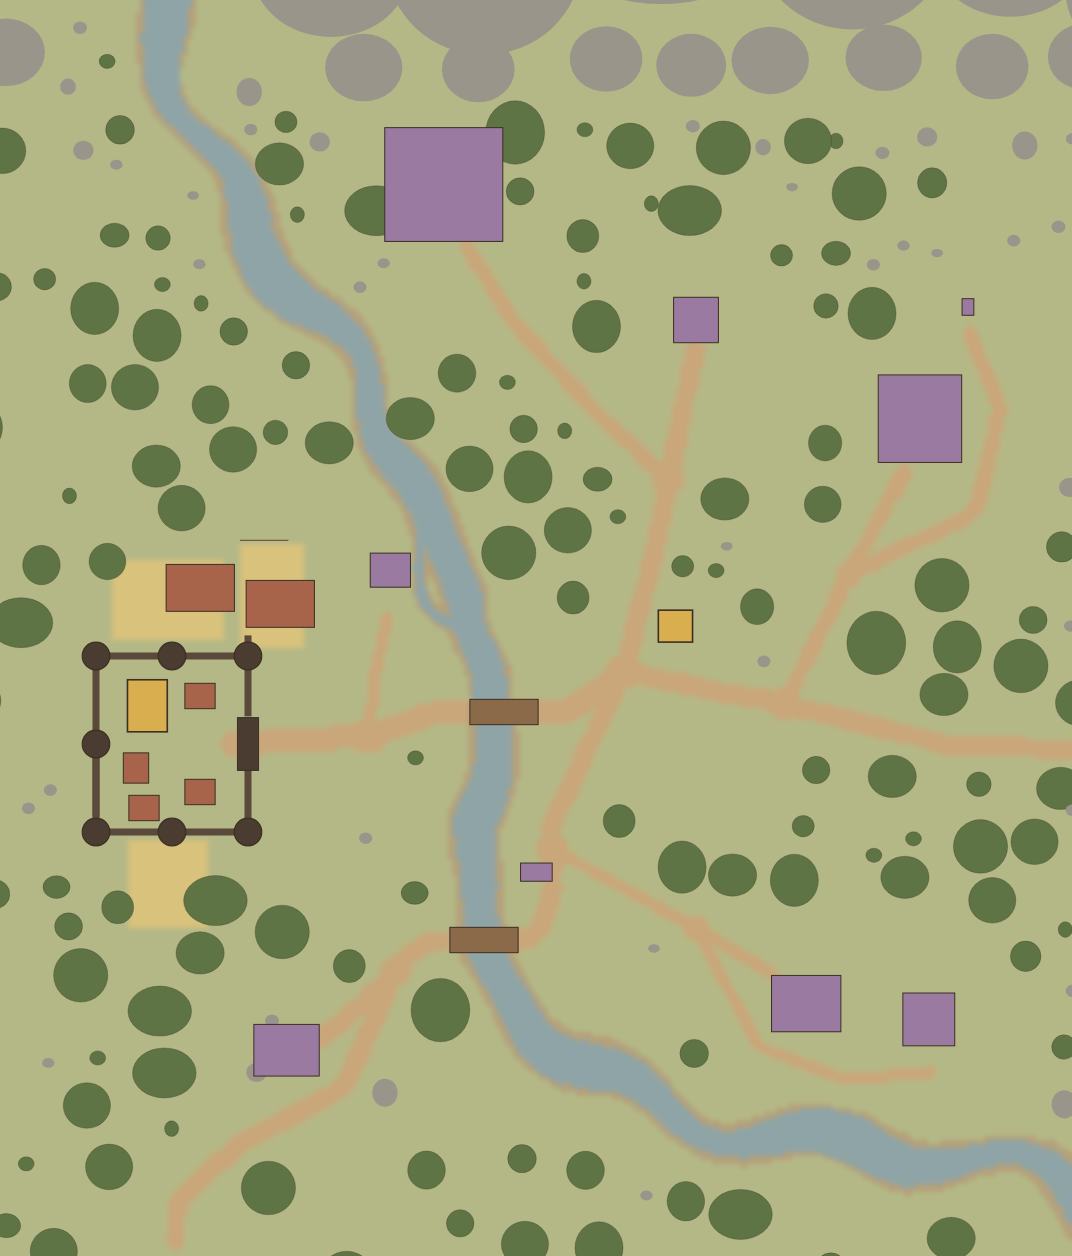
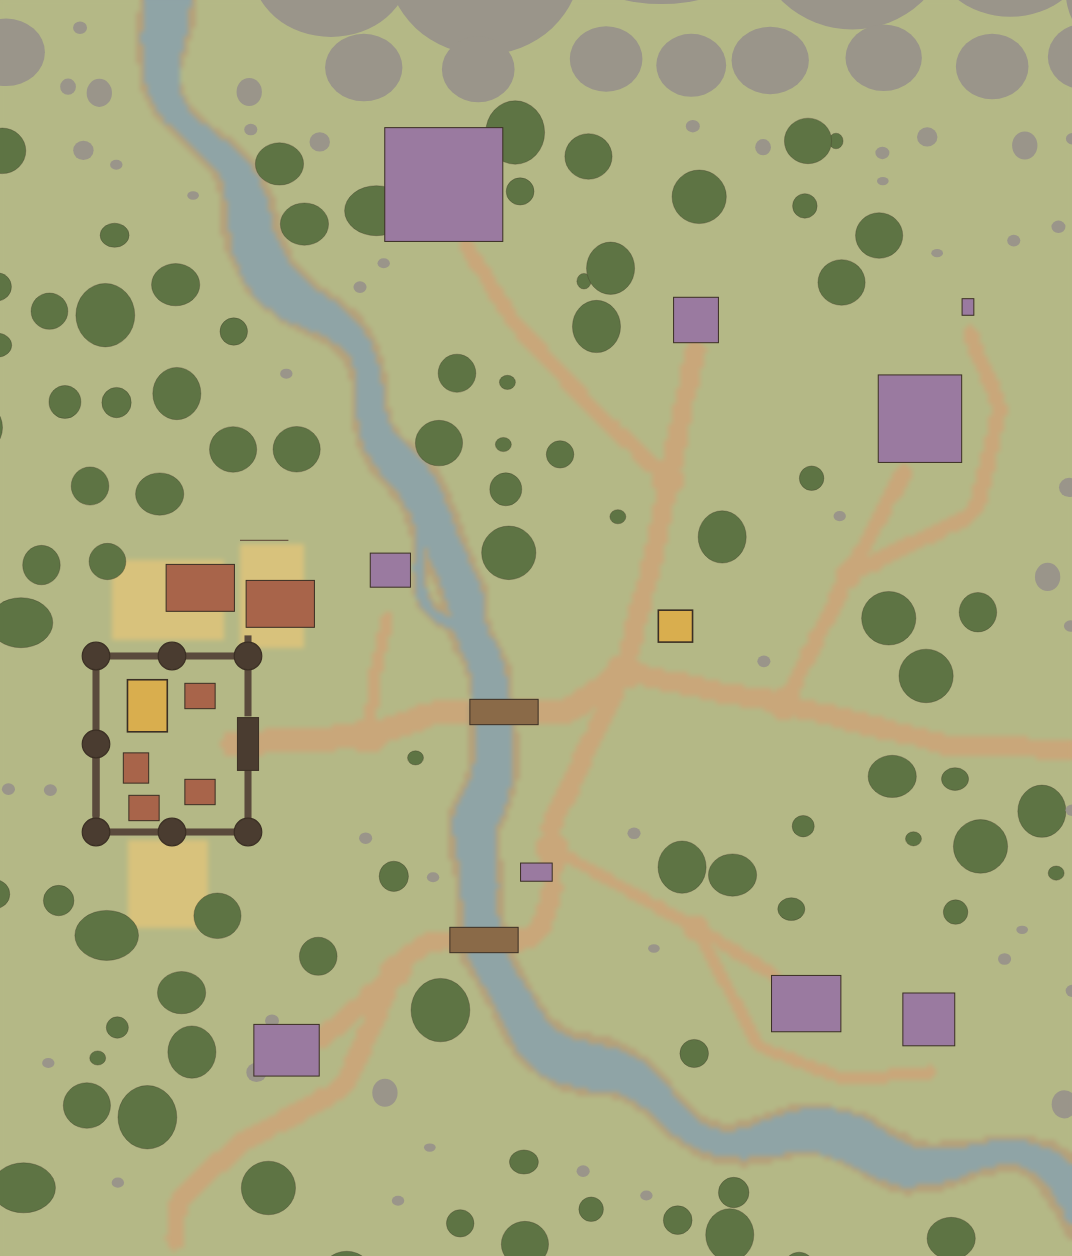
The Hollow Vale's trees a quarter fewer (GDD v1.71)
The owner: "Reduce the trees in Hollow Vale by 25%". Every tree on the
Vale's land (foothills, woods, meadow clumps, the canal road's verge oaks)
now stands on a draw of its own stream (outdoor.js TREE_KEEP), so the
thinning moves nothing else. The forest ring past the map's edge is kept
whole: it is the Vale's wall, and gaps would open onto the void.

Measured on the walked map (seed 20260807), before → after:
- crown cover 19,429 → 14,576 tiles (-25.0 %)
- trees 100 → 67; groves 42 → 33
- ground within 8 tiles of a tree 25.5 % → 17.8 %
The keep share is 0.36, not 0.75: a tree let go frees room that later
passes fill, so the share was tuned on the measured cover.

The thinning let a grove grow over one of the Spit's spawn posts; trees
now keep clear of every spawn point (16 tiles for a grove, 10 a tree).

Tests: the woods target is now 15-25 % within 8 tiles and 30+ groves (was
25-35 % and 40+); the Fens' "less wooded than the Vale" clause is dropped
(the Fens, untouched, is now at 30.6 % by that measure). Level design
rules updated. Minimap and land map for the Vale redrawn from the sim.

Claude-Session: https://claude.ai/code/session_015iJE9saRx1hCYJHRMUYeGn

diff --git a/src/sim/outdoor.js b/src/sim/outdoor.js
@@ -211,6 +211,7 @@ function putWall(o, id, alongX, at, a, b) {
 function putProp(o, kind, x, y) { o.props.set(Math.floor(x) + ',' + Math.floor(y), kind); const i = gi(o, x, y); if (i >= 0) o.occ[i] = 1; }
 
 const TREE_SINGLE = ['pine_1', 'pine_2', 'pine_3', 'pine_4', 'pine_5', 'pine_6', 'oak_1', 'oak_2', 'oak_3', 'oak_4', 'autumn_1', 'autumn_2', 'autumn_3', 'birch_1', 'birch_2', 'birch_3', 'dead_1', 'dead_2'];   // (birches: critic pass 11d)
+const TREE_KEEP = 0.36;   // a draw per tree on the Hollow Vale's land (v1.71): crown cover 19,429 → 14,576 tiles (−25 %), trees 100 → 67; low because a tree let go frees room another pass fills
 const TREE_CLUSTER = ['grove_1', 'grove_2', 'grove_3', 'grove_4', 'grove_5', 'grove_6'];
 // the Fens' (M8, fens critic pass 2): alder carr and willows, low and dark, and the drowned dead
 const FENS_CLUSTER = ['carr_1', 'carr_2'], FENS_SINGLE = ['alder_1', 'alder_2', 'alder_3', 'willow_1', 'willow_2', 'dead_1', 'dead_2'];
@@ -792,12 +793,17 @@ function buildOverland(seed) {
   }
   for (let x = -60; x < 330; x += 20 + mrng() * 14) { const id = pick(mrng, SHOULDER), f = F(id); if (x + f[2] > GORGE[0] && x + f[0] < GORGE[1]) continue; put(o, id, x, -6 - f[3] - mrng() * 6, 'round', 0.35); }   // shoulders before the range
   for (let y = -40; y < 320; y += 20 + mrng() * 10) { const id = pick(mrng, SHOULDER), f = F(id); put(o, id, 268 - f[0] + mrng() * 16, y, 'round', 0.35); }   // the east: lower, further out
+  // the owner, 2026-11-11: "Reduce the trees in Hollow Vale by 25%". Every tree on the land (the foothills, the woods,
+  // the meadow clumps, the canal road's verges; not the forest ring past the edge, the Vale's wall) is kept on a draw
+  // of its own stream, so the thinning moves nothing else: the trees left stand where they stood.
+  const thinT = mulberry32(streamSeed(seed, 4419)), keepTree = () => thinT() < TREE_KEEP;
   const FOOT_ROCK = ['rock_A', 'rock_B', 'rock_C', 'rock_D', 'rock_E'];
   scatter(o, mrng, -60, -30, 330, 320, 5, (x, y) => {                // the foothills: thick at the range, thinning to the meadow
     const d = Math.min(Math.max(0, y + 12), Math.max(0, 270 - x)), belt = 1 - d / 18;
     if (belt <= 0 || mrng() > belt * 0.7) return null;
     const k = mrng();
-    return k < 0.35 ? pick(mrng, FOOT_ROCK) : k < 0.75 ? pick(mrng, ['pine_1', 'pine_2', 'pine_3', 'pine_4', 'pine_5', 'pine_6']) : k < 0.9 ? pick(mrng, TREE_CLUSTER) : pick(mrng, ['dead_1', 'dead_2']);
+    const id = k < 0.35 ? pick(mrng, FOOT_ROCK) : k < 0.75 ? pick(mrng, ['pine_1', 'pine_2', 'pine_3', 'pine_4', 'pine_5', 'pine_6']) : k < 0.9 ? pick(mrng, TREE_CLUSTER) : pick(mrng, ['dead_1', 'dead_2']);
+    return k < 0.35 || keepTree() ? id : null;
   });
 
   // WOODS AND CLUMPS (pass 10: 42 trees on the walked map, 13 % of it within 8 tiles of a tree, a lumber camp in
@@ -809,6 +815,7 @@ function buildOverland(seed) {
   const clear = (x, y, id) => {
     if (hypot(x - town[0] + 16, y - town[1]) < 40 || hypot(x - cross[0], y - cross[1]) < 18) return false;
     for (const c of sites) if (hypot(x - c[0], y - c[1]) < (c === camp || c === warren ? 16 : 24)) return false;
+    for (const c of campsOf('vale')) if (hypot(x - c.x, y - c.y) < (/grove/.test(id) ? 16 : 10)) return false;   // a spawn point's fire and posts on open ground (camps.js; v1.71 the thinning let a grove in over the Spit's)
     return !inFrontOf(sights, x, y, /grove/.test(id) ? 80 : /rock/.test(id) ? 30 : 62, 32) && !inFrontOf([warren], x, y, 40, 26);   // (the adit's spoil and its wreckage reach wider than the old hole did)
   };
   const WOODS = [{ x: 30, y: 48, r: 30 }, { x: 74, y: 16, r: 24 }, { x: 212, y: 24, r: 22 }, { x: 236, y: 182, r: 26 }, { x: 24, y: 240, r: 22 }, { x: 240, y: 104, r: 16 }];
@@ -818,7 +825,7 @@ function buildOverland(seed) {
     let wood = 0; for (const w of WOODS) wood = Math.max(wood, 1 - hypot(jx - w.x, jy - w.y) / w.r);
     const f = fbm(jx * 0.022, jy * 0.022, o.seed + 7), core = wood > 0.4 || f > 0.6;
     const id = core ? (trng() < 0.7 ? pick(trng, TREE_CLUSTER) : pick(trng, TREE_SINGLE)) : (wood > 0 || f > 0.52) && trng() < 0.45 ? pick(trng, TREE_SINGLE) : null;
-    if (!id) continue;
+    if (!id || !keepTree()) continue;
     // crowns may close over each other, never over a road: one that would steps 4 tiles aside (fixed steps, no draws)
     for (const [dx, dy] of [[0, 0], [4, 0], [-4, 0], [0, 4], [0, -4]]) {
       const tx = jx + dx, ty = jy + dy;
@@ -831,7 +838,7 @@ function buildOverland(seed) {
     const cx = x + trng() * 12, cy = y + trng() * 12;
     for (let k = 0, n = 2 + Math.floor(trng() * 3); k < n; k++) {
       const id = pick(trng, TREE_SINGLE), tx = cx + (trng() - 0.5) * 9, ty = cy + (trng() - 0.5) * 9;
-      if (clear(tx, ty, id) && fits(o, id, tx, ty, 0.6)) put(o, id, tx, ty, 'round', 0.35);
+      if (keepTree() && clear(tx, ty, id) && fits(o, id, tx, ty, 0.6)) put(o, id, tx, ty, 'round', 0.35);
     }
   }
   // the canal road's verges: oaks either side every 6 tiles, crowns closing over the wood's edge where it meets the
@@ -841,7 +848,7 @@ function buildOverland(seed) {
       const [ax, ay] = pts[i], [bx, by] = pts[i + 1], l = hypot(bx - ax, by - ay), nx = -(by - ay) / l, ny = (bx - ax) / l;
       for (; next < run + l; next += 6) for (const s of [-11, 11]) {
         const t = next - run, id = Math.floor(next / 6) % 3 ? 'oak_1' : 'autumn_2', x = ax + (bx - ax) * t / l + nx * s, y = ay + (by - ay) * t / l + ny * s;
-        if (y < 258 && clear(x, y, id) && fits(o, id, x, y, -3) && offRoad(o, id, x, y)) put(o, id, x, y, 'round', 0.35);
+        if (y < 258 && keepTree() && clear(x, y, id) && fits(o, id, x, y, -3) && offRoad(o, id, x, y)) put(o, id, x, y, 'round', 0.35);
       }
       run += l;
     } }

diff --git a/docs/README.md b/docs/README.md
@@ -13,7 +13,7 @@ the header of each status doc for what it replaces.
 | [nature-pack-proposal.md](./nature-pack-proposal.md) | Quaternius' Stylized Nature MegaKit (CC0) as landscaping: the env lab's new cut-out (alpha-mask) bake support, every model at in-game scale beside ours, colour measured and graded, two in-game variants (undergrowth only, a full tree swap) captured against now; recommends the undergrowth and rocks and keeping our trees | **Implemented** (2026-10-03): undergrowth and rocks; `tools/actor-lab/env.json` + `envlab.js`, `src/sim/outdoor.js` (`undergrowth`, `ROCKS`), `test/town.test.mjs` |
 | [town-layout-proposal.md](./town-layout-proposal.md) | The town reviewed as an art critic would (the square, the way in, the edge) and replanned for the portrait frame: for Thornwick a timber palisade with watchtowers (stone kept for a later town), the bridge straight into an east gate, the camera leading to the gate on the approach, a cobbled high street, five services round the well with every entrance facing it, more room between them; Thornwick walled on the overland to match. Measured on a blockout with stand-in wall pieces | **Implemented** (2026-10-03): `src/sim/outdoor.js` (`buildTown`, the overland's Thornwick), `tools/actor-lab/buildkit.js` + `town.json`, `src/render/renderer.js` (camera lead, plaques), `src/sim/npcs.js`; `test/town.test.mjs` |
 | [town-art-options.md](./town-art-options.md) | Town + overland prototype with our own buildings; hub towns (one per region, same shapes, regional tones), live via `?scene=town&region=vale` | **Decided** — Option A shapes, regional tones (2026-09-28) |
-| [emberfall-gdd.md](./emberfall-gdd.md) | **Emberfall** game design: autobattler party RPG, classes, stats and attributes, skills, creation and origins, death and resurrection, loot, quests and the Journal, overland, the time of day and the weather, the forge and the shop, offline and multiplayer | **Plan of record** for game design (v1.70, 2026-11-11) |
+| [emberfall-gdd.md](./emberfall-gdd.md) | **Emberfall** game design: autobattler party RPG, classes, stats and attributes, skills, creation and origins, death and resurrection, loot, quests and the Journal, overland, the time of day and the weather, the forge and the shop, offline and multiplayer | **Plan of record** for game design (v1.71, 2026-11-11) |
 | [emberfall-world.md](./emberfall-world.md) | Emberfall world summary: the Old Provinces (history, how the Ember works, six regions and Solmere), the five factions, characters, the six-act arc, discoverable lore and the count, bestiary, region bosses and Solmere's challenges, origins and dialogue voice | **Canon** for narrative and quest content (v1.42, 2026-11-11) |
 | [tile-styles.md](./tile-styles.md) | Five structured floor/wall tile styles × seven material variants (plain, earth, rock, lava, poison, ice, water), switch with `?tiles=&tv=` | **Superseded** (2026-11-09): Emberlit's tile painting (`tilestyles.js`) removed with Luminati only, [luminati-only-cleanup.md](./luminati-only-cleanup.md) step 4; was Current, cobble the default (2026-09-28) |
 | [art-critic-pass-2.md](./art-critic-pass-2.md) | Critic pass 2: battle spacing, readable figures, church/forge/porch, soft foliage, dungeon room themes; scores 6.8–7.2 per track, ranked open issues | Superseded by pass 3 |

diff --git a/docs/emberfall-gdd.md b/docs/emberfall-gdd.md
@@ -1,6 +1,9 @@
 # Emberfall — Game Design Document
 
-**v1.70 · 2026-11-11 · Plan of record for game design.** v1.70 (§3.3b, the owner: "A gate prevents a player from
+**v1.71 · 2026-11-11 · Plan of record for game design.** v1.71 (the owner: "Reduce the trees in Hollow Vale by 25%"): the Hollow
+Vale's trees on the land a quarter fewer by crown cover (19,429 → 14,576 tiles; 100 → 67 trees, 42 → 33 groves), the forest ring
+past its edge kept whole as its wall, every spawn point's fire and posts kept clear of crowns (sim/outdoor.js TREE_KEEP;
+docs/level-design-rules.md densities). v1.70 (§3.3b, the owner: "A gate prevents a player from
 moving to the next room until they have survived 20 waves… Once open, always open for that game slot"): every floor's
 last hall behind a gate, dropped by 20 waves held in the room before it, for good in the slot (save v41). v1.69 (the owner, 2026-11-11): §3.3 an ordinary room's tide
 tops out at wave 20, not 18 ("Room waves should be 20 to reach foes at +100% not 18"); §10.3 every spawn point's reach a

diff --git a/docs/level-design-rules.md b/docs/level-design-rules.md
@@ -149,7 +149,7 @@ on. What the code does today is set against each profile below; the "to change" 
   - The canal road has a verge of oaks every 6 tiles.
   - The foothills are pines, scree and the range's rocks.
   - Undergrowth is thick at the woods' edges and along the banks, in patches in the meadow.
-- **Densities:** tree cover 25–35 % of the map within 8 tiles of a tree, with 40 or more groves (*test*). Rocks about
+- **Densities:** tree cover 15–25 % of the map within 8 tiles of a tree, with 30 or more groves (*test*; GDD v1.71, the owner: the Vale's trees a quarter fewer; it was 25–35 % and 40+). Rocks about
   1 % of the meadow (*test*: ≤30 on the map).
 - **Never:** marsh trees (alder carr, willow); bare desert rock on the meadow.
 - **Today:** as above. Every tree and undergrowth piece stands on grass (survey, seed 20260807: 290 trees, 214
